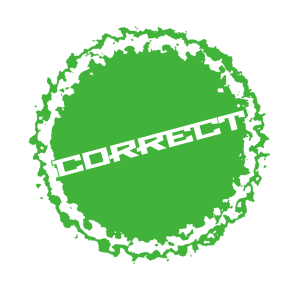
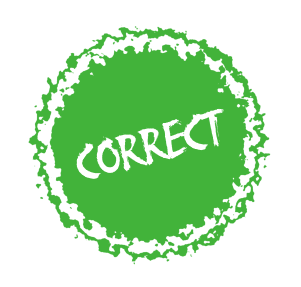
Added animations to practice page

Changed region(s): [[0.1495, 0.3624, 0.8372, 0.6411]]

diff --git a/components/PracticeSection/PracticeSection.tsx b/components/PracticeSection/PracticeSection.tsx
@@ -17,6 +17,7 @@ const PracticeSection = () => {
   const hintEnable = hint ? "Disable" : "Enable";
 
   const [correctAnswer, setCorrectAnswer] = useState(false);
+  const [showResult, setShowResult] = useState(false);
 
   const [currentChar, setCurrentChar] = useState<string | null>(null);
 
@@ -43,6 +44,7 @@ const PracticeSection = () => {
     );
 
     setCorrectAnswer(result);
+    setShowResult(true);
   };
 
   useEffect(() => {
@@ -50,6 +52,7 @@ const PracticeSection = () => {
 
     historyRef.current = [];
     setCorrectAnswer(false);
+    setShowResult(false);
     clearCanvas();
   }, [charInfo?.char, canvas]);
 
@@ -95,6 +98,7 @@ const PracticeSection = () => {
             clearCanvas();
             historyRef.current = [];
             setCorrectAnswer(false);
+            setShowResult(false);
           }}
         />
 
@@ -116,15 +120,27 @@ const PracticeSection = () => {
           />
         </div>
       </div>
-      {correctAnswer && (
-        <div className="absolute z-50 w-[20%] aspect-square top-[5%] left-[7%]">
-          <Image
-            src={"/images/correct-answer.png"}
-            alt="Correct icon"
-            fill
-            className="object-contain"
-          />
-        </div>
+      {showResult && (
+        <>
+          <div className="absolute w-[20%] h-[40%] top-[30%] left-0 animate-slide">
+            <div className="relative w-full h-full">
+              <Image
+                src="/images/shiba_checker.png"
+                alt="Shiba checker"
+                fill
+                className="object-contain rotate-180"
+              />
+            </div>
+          </div>
+          <div className="absolute z-50 w-[20%] aspect-square top-[5%] left-[7%] animate-stamp">
+            <Image
+              src={`/images/${correctAnswer ? "correct" : "wrong"}-answer.png`}
+              alt="Correct icon"
+              fill
+              className="object-contain"
+            />
+          </div>
+        </>
       )}
     </section>
   );

diff --git a/app/globals.css b/app/globals.css
@@ -4,6 +4,39 @@
   --color-main-red: #b33b3a;
 }
 
+@keyframes slide {
+  0% {
+    transform: translateX(-100%);
+  }
+
+  30% {
+    transform: translateX(0%);
+  }
+
+  70% {
+    transform: translateX(0%);
+  }
+
+  100% {
+    transform: translateX(-100%);
+  }
+}
+
+@keyframes stamp {
+  0% {
+    opacity: 0;
+    transform: scale(3);
+  }
+  60% {
+    opacity: 1;
+    transform: scale(0.85);
+  }
+  100% {
+    opacity: 1;
+    transform: scale(1);
+  }
+}
+
 body {
   font-family: var(--font-protest-revolution);
   background-image: url("/images/background.jpg");
@@ -12,4 +45,15 @@ body {
 
 button {
   cursor: pointer;
+}
+
+.animate-stamp {
+  animation: stamp 0.75s ease-in-out;
+  animation-fill-mode: both;
+  animation-delay: 1s;
+}
+
+.animate-slide {
+  animation: slide 3s ease-in-out;
+  animation-fill-mode: both;
 }
